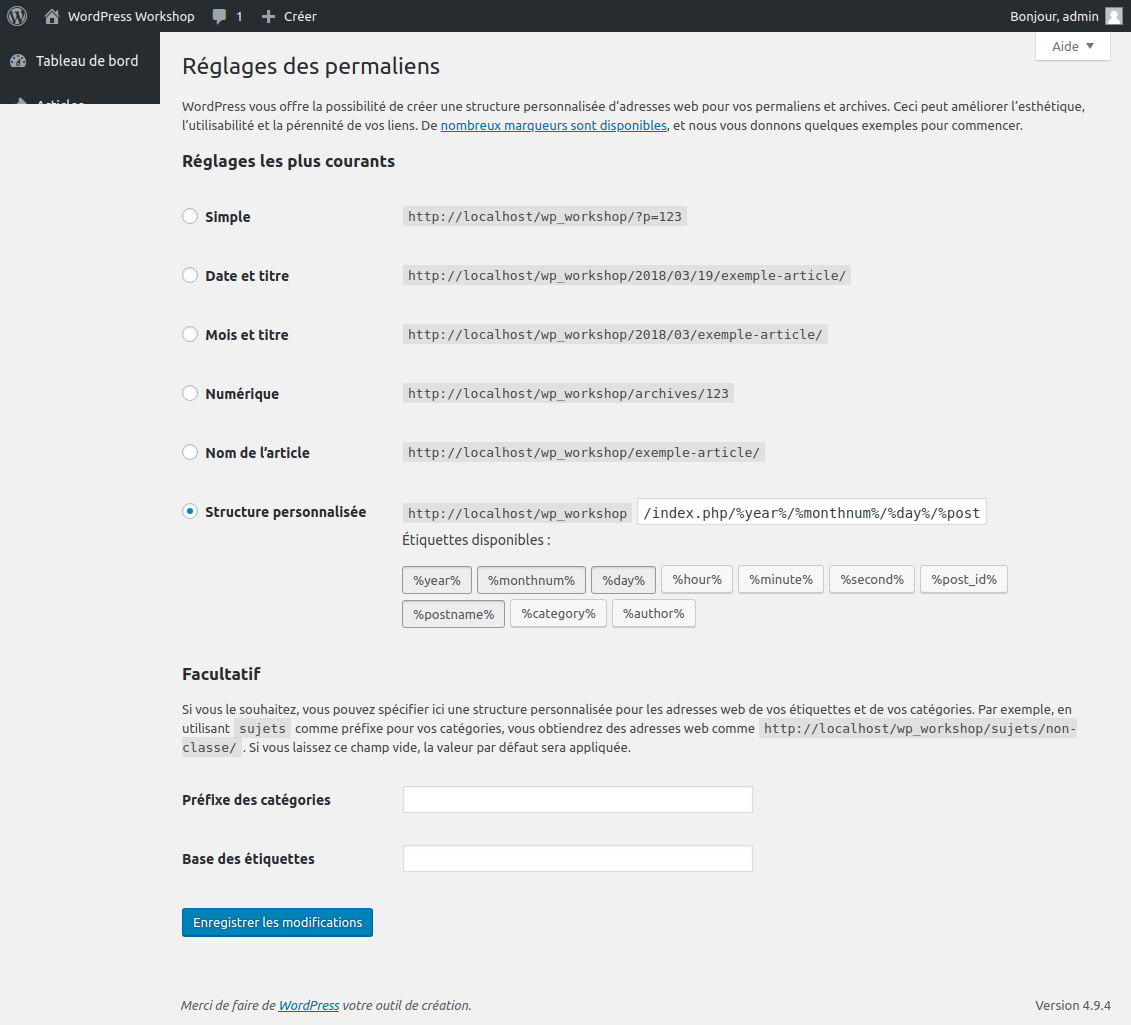
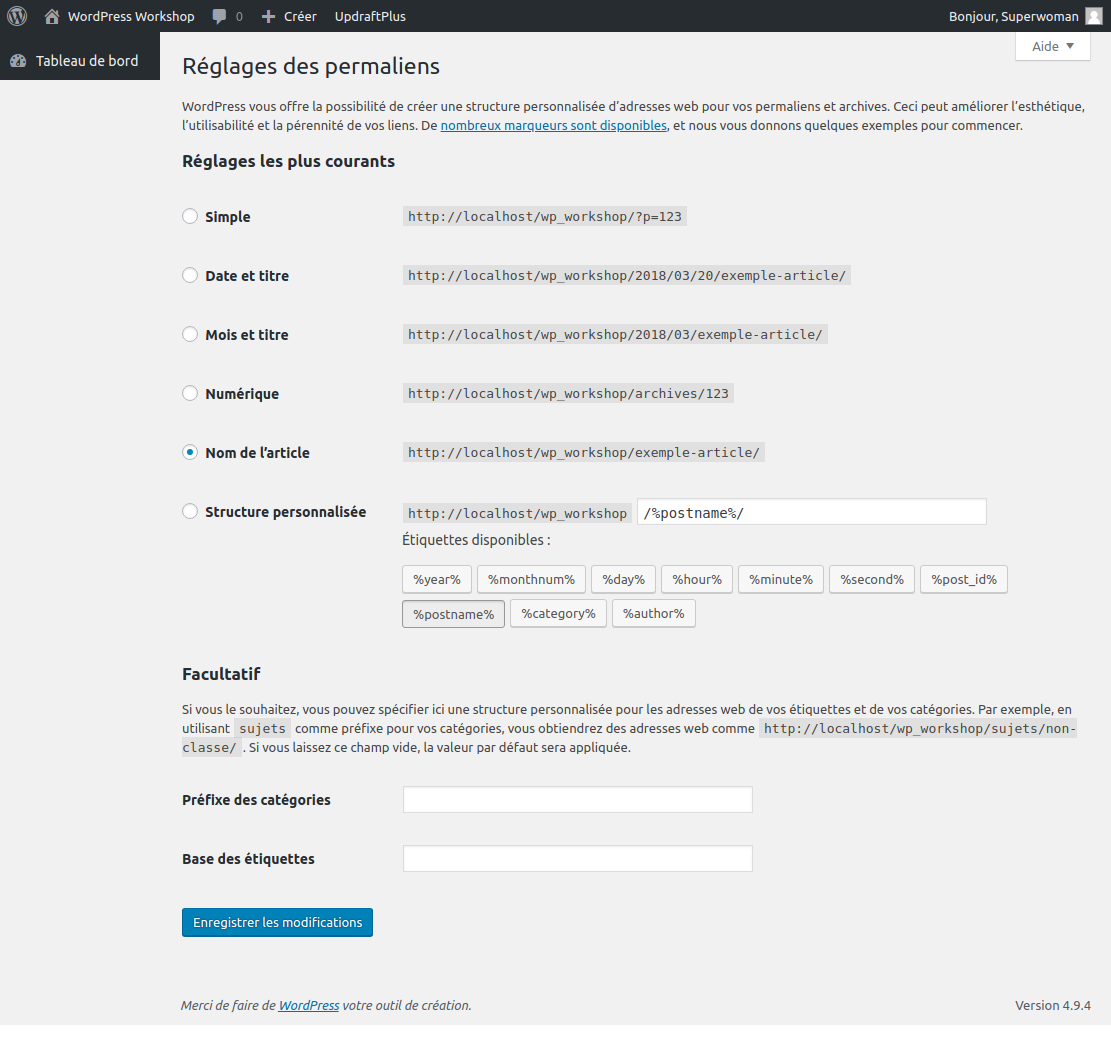
Pages ok - recommence ajout articles

diff --git a/Partie 3 : Découverte de l'interface de wordPress.md b/Partie 3 : Découverte de l'interface de wordPress.md
@@ -438,25 +438,70 @@ La disposition de l'interface centrale pour les étiquettes est en tout point si
 
 ![Medias](images/interface_barre_menus_Medias.png)
 
-Dans cette section vous pourrez ...
+Dans cette section vous pourrez ajouter toutes une série de médias.
 
-Un média est ...
+Un média peut être une image, un son ou musique, une vidéo ou un fichier à télécharger par vos visiteurs via un lien.
+
+**Attention:**
+
+Renseigner vous bien sur les droits d'auteurs avant d'utiliser sur votre site des contenu provenant d'internet car il serait dommage de voir votre site être fermé pour un non respect de la législation en la matière. Par défaut, si il n'est pas précisé explicitement qu'un média est libre de droits, elle ne l'est pas. Méfiez-vous également des fichiers libre de droits pour un usage privé mais qui deviennent payant pour un usage commercial.
 
 #### Bibliothèque
 
 ![Medias - Bibliothèques](images/interface_barre_menus_Medias_Bibliotheque1.png)
 
+La bibliothèque est l'endroit dans WordPress où sont stockées tous vos fichiers médias. C'est ici que vous pourrez modifier les paramètres qui y sont rattaché (titre, légende, description, texte alternatif, etc...).
+
+Il est recommandé d'optimiser vos images pour le web (photoshop ou pixlr https://pixlr.com/editor/ (outil gratuit en ligne)) et vos fichiers afin de réduire leurs taille au maximum pour améliorer les performance de votre site et du même coup améliorer votre référencement qui dépend également de la vitesse de chargement de votre page.
+
+
 #### Ajouter
+
+Vous pouvez ajouter des médias via le menu "Medias" mais vous pouvez aussi ajouter des médias à la bibliothèque directement lors de la rédaction d'une page ou d'un article en cliquant sur le bouton "Ajouter un média" se trouvant juste au-dessus de l'éditeur de texte. Dans ce cas le média sera "lié" à votre page, ce qui peut être nécessaire pour certains plugins permettant par exemple de présenter vos fichiers pdf à télécharger sous forme d'une icone plutôt que sous la forme d'un lien texte.
 
 ![Medias - Bibliothèques](images/interface_barre_menus_Medias_ Ajouter.png)
 
 ![Medias - Bibliothèques](images/interface_barre_menus_Medias_Ajouter2.png)
 
+Vous pourrez insérer un contenu provenant de votre disque dur ou provenant directement d'internet en indiquant simplement son url (attention aux droits d'auteur et licence d'utilisation).
+
+Attention la taille maximum pour vos fichiers est de 2MB. Si votre fichier dépasse cette taille il est préférable de les stocker sur un espace en ligne et de proposer son téléchargement via un lien dans une page ou un article de votre site.
+
+
+![Medias - Bibliothèques](images/interface_barre_menus_Medias_Ajouter2.png)
+
+Il est très important de remplir quelques informations concernant les fichiers de votre bibliothèque. Prenez l'habitude de le faire dès que vous télécharger un nouveau fichier dans votre bibliothèque.
+
+Vous avez accès à ces informations en cliquant sur l'icone de votre fichiers dans la bibliothèque.
+
+Adresse web: C'est l'url auquel correspond votre média (il n'est pas nécessaire de la modifier sous peine de rencontrer des problèmes d'affichage)
+
+Titre : Le titre par defaut indiqué sera celui du fichier que vous avez télécharger. Il peut être très intéressant de le modifier pour utiliser des mots qui le définisse bien et qui auront un bon impact sur votre référencement en fonction de votre domaine d'activité. Choississez un nom court et clair. Ce champ peut contenir des majuscules, minuscule, plusieurs mots, des chiffres, ... Eviter cependant les underscores car dans certains cas des plugins affiche le titre de votre fichiers (exemple titre du pdf)
+
+Légende: Ce champ n'est pas obligatoire et s'affichera ou non selon le thème et les réglage du thème que vous utiliserai.
+
+Texte alternatif: Ce champ est très important. Il correspond à l'option alt pour la balise image en html. Il s'agit du texte qui s'affichera si votre image n'est pas disponible et qui sera lu pour les personnes présentant des problèmes de vue. utiliser un texte court et clair. Dans tout les cas remplissez ce champ. Par facilité, vous pouvez faire un copier-coller du titre de votre média, cela devrait convenir.
+
+Description: Ce champ n'est pas obligatoire, mais peut apporter des informations complémentaire, il pourra être affiché dans certains thèmes selon vos réglages. Soigner donc votre orthographe.
+
+Toutes les modifications faites dans cette zone sont automatiquement enregistrées sans que vous deviez cliquer sur un bouton d'enregistrement.
+
+Vous pouvez également à cet endroit apporter des modifications à votre image en cliquant sur le bouton se trouvant juste sous la prévisualisation de celle-ci "Modifier l'image". Vous avez alors la possibilité d'effecuter des rotation (vertical ou horizontal) des symétrie (axe vertical ou horizontal). Vous pourrez également redimensionnez votre image en indiquant de nouvelle dimensions pour celle-ci (les valeurs de hauteur et largeur sont liées pour éviter la déformation de votre image). vous pouvez également recadrer votre image. Le moyen le plus simple pour procéder au recadrage est de cliquer sur l'image et de délimiter la zone à recadrer par cliquer glisser.
+
+
+![Medias - modifier image](interface_barre_menus_Medias_ Modifier.png)
+
+
+Quelques autres exemple de définition des infos pour différents type de média:
+
 ![Medias - Bibliothèques](images/interface_barre_menus_Medias_Ajouter3.png)
+
 
 ![Medias - Bibliothèques](images/interface_barre_menus_Medias_Ajouter4.png)
 
+
 ![Medias - Bibliothèques](images/interface_barre_menus_Medias_Ajouter5.png)
+
 
 ![Medias - Bibliothèques](images/interface_barre_menus_Medias_Ajouter6.png)
 
@@ -464,34 +509,65 @@ Un média est ...
 
 ### Pages
 
+#### Différences entre pages et Articles
+
+Les pages sont comme des articles, en cela qu’elles ont un titre, un contenu et des métadonnées associées ; mais elles diffèrent en cela qu’elles ne font pas partie du flux chronologique du blog - un peu comme des articles permanents.
+
+Les pages ne sont pas catégorisées et ne reçoivent pas d’étiquettes, mais peuvent disposer d’une hiérarchie. En effet, vous pouvez imbriquer des pages sous d’autres pages, faisant de ces dernières les « parentes » des premières, créant ainsi un groupement de pages.
+
 ![Pages](images/interface_barre_menus_Pages.png)
+
+Dans cette partie vous pourrez ajouter de nouvelles pages à votre site.
 
 #### Toutes les pages
 
 ![Pages - Toutes les pages](images/interface_barre_menus_Pages_Toutes_les_pages.png)
 
+Ici sont listés toutes les pages de votre site. Vous pouvez au survol de celle-ci accéder à des options supplémentaires (Modifier, Modification rapide, Corbeille, Afficher). WordPresse installe par défaut une page appellée "Page d'exemple". Lorsque vous aurez créer vos propres pages vous pourrez la supprimer. Elle n'a pour but que de vous montrer les fonctionnalités de base possible dans les pages.
+
+Vous pouvez également voir le nom du créateur de la page (celui que vous avez indiquer dans votre nom d'administrateur dans votre profil), ainsi que sa date de création.
+
+Vous pouvez les classer par ordre alphabétique en cliquant sur le "Titre" de la colonne. Vous pouvez également les classer en fonction de leur date de création en cliquant sur "Date".
+
 ![Pages - Modifier pages](images/interface_barre_menus_Pages_Modifier_la_page.png)
+
+La section modifier du menu "Pages" vous permet d'accéder à toutes les options auxquelles vous avez accès lorsque vous créer une nouvelle page. Vous pouvez ainsi y modifier ce que vous souhaitez
 
 ![Pages - Previsuliser pages](images/interface_barre_menus_Pages_Prévisualiser_la_page.png)
 
+Permet de visualiser la page
 
 #### Ajouter
 
 ![Pages - Ajouter](images/interface_barre_menus_Pages_Ajouter.png)
 
-
+**Astuce WorkShop :**
 
 Générer du faux-texte (lorem ipsum) : http://www.faux-texte.com/
 
-Ou vous pouvez aller dans le dossier "Lorem ipsum" du repository github de ce workshop où vous trouverez un fichier texte avec 10 paragraphes de faux texte.
+Ou vous pouvez aller dans le dossier "Lorem ipsum" du repository github de ce workshop où vous trouverez un fichier texte avec 10 paragraphes de faux texte à copier et coller pour générer rapidement plusieurs articles et pages.
 
 Adresse vidéo à insérer dans WordPress : https://www.youtube.com/watch?v=cOPWhAYil48
 
 
+Dans la section "Ajouter" vous avez accès à toutes les options de la page:
 
-![Pages - Image mise en avant](images/interface_barre_menus_Pages_Image_mise_en_avant.png)
+**Titre:** Veuillez à ce qu'il ne soit pas trop long et pensez à y inclure des termes utile pour votre référencement.
+
+**Permalien :** Permet de modifier l'adresse URL de votre page (cette manipulation est délicate et peut posé des problème de lien brisé. Je vous conseille donc de toujours faire une sauvegarde avec updraftplus avant de modifier quoi que se soit dans les permalien). Il peut être intéressant de retirer de l'adresse url tous les mots liens inutiles qui n'apporte rien à vos utlisateur, ni au moteurs de recherche. Faites cette opération avant de rédiger votre contenu et d'y insérer des médias car sinon il y a un risque de problème d'affichage par après.
+
+**Bouton Ajouter un média:** Permet d'ajouter un média dans la bibliothèque. Ce média sera lié à votre page (utile pour certains plugin d'affichage de lien de téléchargement de fichiers sous forme d'icone par exemple). Cette liaison peut être faite également via les options si vous cliquer sur le média dans votre article, une fois dans la bibliothèque, vous pourrez voir dans les infos de l'image que vous aurez selectionner une section "Réglages de l'affichage du fichier joint". Vous pourrez y déterminer l'alignement de votre média, Lier à Aucun, Fichier média, page du fichier joint (ouvre un page avec uniquement la photo), lien personnalisé), ainsi que sa taille: miniature, moyennen ou taille originale)
+
+**L'éditeur de texte:**  vous permet de mettre le texte en forme Titre, paragraphe, gras,italique, lise à puce, alignement, citation, insérer un lien, insérer une balise lire la suite, ...
+Si vous cliquer sur la dernière icone vous aurez accès à d'autres options de mise en forme supplémentaires: texte barré, ligne horizontale, couleur du texte, nettoyer le formatage, caractères spéciaux, diminuer ou augmenter l'indentation, annuler ou rétablir une modification, un bouton ? reprenant tous les raccourcis de mise en forme)?.
+
+Pour les amoureux du code ou si vous avez du texte déja formaté en html que vous désirez utiliser, vous pouvez cliquer sur l'onglet" Texte (Jusqu'à présent nous étions dans l'onglet "Visuel"), où vous pourrez retrouver toute votre mise en forme en html.
+
+Si vous rencontrer un problème ou que vous ne savez pas comment mettre votre texte en forme, référer vous à l'onglet Aide (en haut à droite sous la barre d'outils) qui vous offrira une aide contextuelle sur tout ce qui concerne les pages.
 
 ![Pages - Ajout page et aide](images/interface_barre_menus_Pages_ajout_page_aide.png)
+
+Pour ajouter un média dans votre page il vous suffit de placer votre curseur dans l'éditeur de texte à l'endroit où vous souhaitez insérer le média et de cliquer sur le bouton "Ajouter un média" qui vous redirigera automatiquement vers la bibliothèque ou vous pourrez utiliser des fichiers déja télécharger, en télécharger de nouveau ou insérer un média directement à partir d'une adresse url
 
 ![Pages - media mise en forme](images/interface_barre_menus_Pages_ajout_media_mise_en_forme.png)
 
@@ -503,8 +579,31 @@ Adresse vidéo à insérer dans WordPress : https://www.youtube.com/watch?v=cOPW
 
 ![Pages - nouveau media - son](images/interface_barre_menus_Pages_téleverser_nouveau_fichier4.png)
 
+Voici donc le résultat de notre page contenant différents types de médias:
+
 ![Pages - resultat - multimedia](images/interface_barre_menus_Pages_multi_medias.png)
 
+
+#### Le module "Publier"
+
+Le module "Publier" des pages est en tout point similaire à celui utiliser dans la section des articles il permet les même options.
+
+
+#### Le module Attributs de pages
+
+Vous permet de créer une hierarchie entre vos pages et pour certains thème appliquer à votre page un modèle précis particulier.
+
+Parent — Vous pouvez arranger vos pages en hiérarchies. Par exemple, vous pourriez avoir une page « À propos », avec comme sous-pages « Ma vie » et « Mon œuvre ». Il n’y a pas de limite à la profondeur des sous-pages.
+
+Modèle — Certains thèmes utilisent des modèles spéciaux que vous pouvez appliquer à pages des pages précises, avec des fonctionnalités supplémentaires ou une mise en page qui leur est propre. Si c’est le cas, vous les verrez dans ce menu déroulant.
+
+Ordre — Les pages sont généralement affichées par ordre alphabétique, mais vous pouvez indiquer un nombre dans ce champ pour modifier l’ordre d’apparition : 1 pour premier, etc.
+
+#### Image mise en avant
+
+Ce champ n'est pas obligatoire, il permet de choisir une image qui symbolisera le mieux le sujet de votre page et qui sera utiliser différemment selon votre thème. Généralement il affiche l'image en grand sur toute la largeur dans le haut de votre page avant son contenu. 
+
+Veillez à employer des images de taille suffisante car certains thème les affichent sur toute la largeur de la page ce qui peut provoquer une pixelisation de l'image si celle-ci est de petite taille. Bien sur optimisé pour le web votre image avant de la télécharger dans la bibliothèque.
 
 
 ### Commentaires
@@ -738,7 +837,29 @@ Ne pas oublier de cliquer sur le bouton "Enregistrer les modifications".
 
 ![Reglages - Medias](images/interface_barre_menus_Reglages_medias.png)
 
-#### Permaliens
+#### Permaliens (A manipuler avec précaution)
+
+Attention avant de modifier les permaliens que se soit via le menu "Réglages" ou directement dans la modification d'article, FAITES TOUJOURS UNE SAUVEGARDE DE VOTRE SITE !!! Les modifications dans les permaliens peut parfois causer des problèmes et empêche l'affichage correct des articles. Donc ayez à porter de main un sauvegarde prête à être restaurée en cas de problème (plugin updraftplus)
+
+Les permaliens sont la partie visible de l’adresse Web, qui vient après votre nom de domaine, et qui pointe vers les messages et les pages de votre site.
+
+Modifier les permaliens sur un site en place peut être risqué. Vous devez être absolument sûr de vouloir faire ce changement, car il peut avoir un impact sur votre référencement. Cela peut aussi causer beaucoup d’erreurs et de liens rompus si la modification n’est pas faites correctement.
+
+Les permaliens ont plusieurs fonctions:
+
+* Ils permettent à vos lecteurs d’obtenir une compréhension sommaire du sujet traité dans l’article ou la page sans regarder le contenu.
+
+* Ils sont utilisés par les moteurs de recherche pour découvrir le sujet de l’article ou de la page à partir de l’URL.
+
+* Ils fournissent un emplacement permanent à vos visiteurs et aux moteurs de recherche pour accéder à votre contenu.
+
+* Ils sont essentiellement un identifiant unique pour chaque élément de contenu que vous créez.
+
+Lorsque vous avez choisi la syntaxe vous allez utiliser, il est temps d’aller dans le menu permaliens de votre tableau de bord et d’effectuer les changements.
+
+Attention: L’ensemble de vos URL internes sera mis à jour avec la nouvelle syntaxe, si elles ont été ajoutées dans le cadre de WordPress. Tous les autres liens devront être mis à jour manuellement.
+
+Attention: Notez cependant que tous les liens vers votre site provenant des moteurs de recherche, des rétroliens, etc… sont à présent brisés et le contenu indexé par les moteurs de recherche ne pointera plus vers les articles correspondants.
 
 ![Reglages - Permaliens](images/interface_barre_menus_Reglages_permaliens.png)
 
@@ -758,12 +879,48 @@ http://localhost/wp_workshop/wordpress-cest-la-simplicite/
 
 Pour créer automatiquement cet url à partir du titre, WordPress a supprimer la ponctuation (, ! ?, ...), les espaces ont été remplacés par des tirets, les majuscules ont été converties en minuscule et les apostrophes ont également été supprimées. Les caractères accentués seront transformer en leur équivalent non accentué é --> e.
 
-On peut aller encore plus loin dans la personnalisation de nos permalien en allant directement dans "Articles" --> "Tous les articles" et en cliquant sur un des articles de la liste. Sous le titre,on vois s'affiche le permalien. Cliquer sur le petit bouton "Modifier" et supprimer dans le lien tout les mots liens inutiles qui n'ont rien de pertinent dans une recherche internet, pour simplifier au maximum l'url. Attention respecter les règles de nommmage (que des minuscule, chiffres, trait d'union, pas d'espace, ni de majuscules, ni de caractère accentués). N'oubliez pas de mettre à jour votre article.
+Pour un site d'actualité pour laquelle la date de publication peut être une information importante je vous conseille de choisir plutôt l'option "Structure personnalisée" et d'indiquer une date (jour/mois/année) avant le nom du post. Ces informations sont importantes car elle peuvent indiqué si un article est toujours d'actualité ou peut comporter des informations qui ne seront pas toujours très récentes.
 
 On obtient alors une URL de ce type:
 
 http://localhost/wp_workshop/wordpress-simplicite/
 
+On peut aller encore plus loin dans la personnalisation de nos permalien en allant directement dans "Articles" --> "Tous les articles" et en cliquant sur un des articles de la liste. Sous le titre,on vois s'affiche le permalien. Cliquer sur le petit bouton "Modifier" et supprimer dans le lien tout les mots liens inutiles qui n'ont rien de pertinent dans une recherche internet, pour simplifier au maximum l'url. Attention respecter les règles de nommmage (que des minuscule, chiffres, trait d'union, pas d'espace, ni de majuscules, ni de caractère accentués). N'oubliez pas de mettre à jour votre article.
+
+On obtient alors une URL de ce type:
+
+http://localhost/wp_workshop/20/03/2018/bonjour-tout-le-monde/
+
+## Problème de liens cassés - page 404 lorsque permaliens passé en option "Nom de l'article"
+
+Le problème est identique lorque l'on choisi "structure personnalisée" et que l'on indique juste "/%postname%/", ce cela revient au même que l'option "Nom de l'article" et donc est modifié en "Nom de l'article" automatiquement lors de l'enregistrement.
+
+Voici la marche à suivre pour optimiser malgrès tout vos liens. Choisissez "Structure personnalisée" et copier dans le champ le code suivant:
+
+```
+/index.php/%postname%/
+```
+
+Enregistrer les modifications. Revenez sur la page d'acceuil de votre site (http://localhost/wp_workshop/), rafraichissez la page et cliquer sur le titre d'un de vos articles. Il devrait à présent s'afficher avec une adresse URL du type : http://localhost/wp_workshop/index.php/bonjour-tout-le-monde/
+
+Le rajout de index.php dans l'URL n'est pas idéal mais permet de contourner le problème et surtout d'indiqué une url contenant le titre de votre article plutôt qu'un numéro d'ID qui n'apporte aucune infos à vos visiteurs, ni au moteurs de recherche et donc nuit à votre référencement (SEO).
+
+Le contenu du fichier .htaccess situé à la racine du dossier de votre site (créer lors de la modification des permaliens) reflète ce changement (fichier caché auquel on ne peut avoir accès en écriture qu'en mode administrateur (sudo))
+
+```
+# BEGIN WordPress
+
+<IfModule mod_rewrite.c>
+RewriteEngine On
+RewriteBase /wp_workshop/
+RewriteRule ^index\.php$ - [L]
+RewriteCond %{REQUEST_FILENAME} !-f
+RewriteCond %{REQUEST_FILENAME} !-d
+RewriteRule . /wp_workshop/index.php [L]
+</IfModule>
+
+# END WordPress
+```
 
 
 

diff --git a/Partie 5 : Maintenance et Optimisation.md b/Partie 5 : Maintenance et Optimisation.md
@@ -106,4 +106,6 @@ Dans settings / permalinks choisir l'option post name pour l'affichage des url q
 
 Lors de la rédaction de vos articles, veillez à bien choisir les titres mais également à utiliser des mots clefs vous assurant un bon référencement dans le domaine dont traite votre site. Utliser les catégorie (obligatoire), mais utiliser également les étiquettes avec des mots clefs optimisés SEO.
 
-Modifier les permaliens (url) de vos articles afin d'avoir des url propre et dépourvues de mots liens inutiles. Une bonne gestion des permaliens (URL) de vos articles permet une optimisation de l'indexation des pages de votre site et un meilleur référencement. Choisissez l'option "Structure personnalisée dans "Réglages" --> "Permaliens", car c'est cette option qui offre les meilleurs résultats en matière de référencement. (vous pouvez customiser les différentes parties qui compose l'url en choississant de ne pas inclure la date, l'heure, l'auteur, la categorie ou autres...)
+Modifier les permaliens (url) de vos articles afin d'avoir des url propre et dépourvues de mots liens inutiles. Une bonne gestion des permaliens (URL) de vos articles permet une optimisation de l'indexation des pages de votre site et un meilleur référencement.
+
+Commencer toujours par faire une sauvegarde de votre site et de votre base de données (plugin updraftplus) avant de modifier les options de permaliens ou les permaliens directement dans la section "Articles". Choisissez l'option "Nom de l'article" dans "Réglages" --> "Permaliens" dès l'installation de WordPress, car c'est cette option qui offre les meilleurs résultats en matière de référencement. (vous pouvez customiser les différentes parties qui compose l'url en choississant de ne pas inclure la date, l'heure, l'auteur, la categorie ou autres...)
